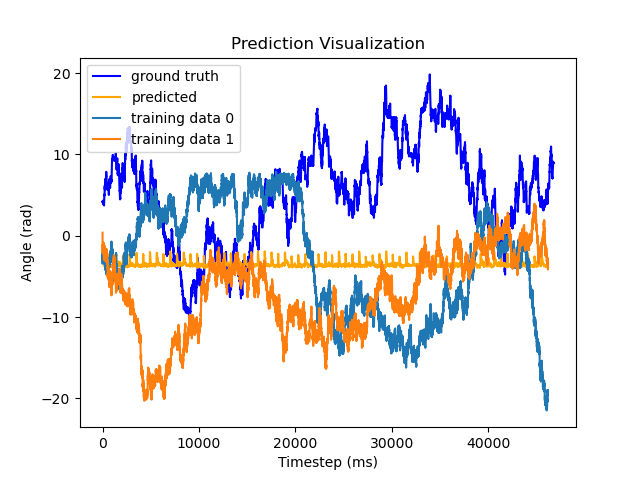
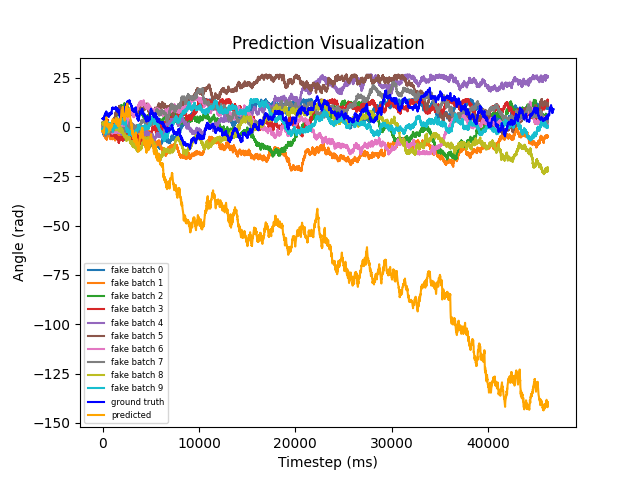
Real data is fundamentally different from fake data...see loss_ctrnn (1).png

diff --git a/src/train_fakedata.py b/src/train_fakedata.py
@@ -24,10 +24,10 @@ def main():
     outputs = []
     
     for i in range(TRAINING_BATCHES):
-        # if i == 0:
-        #     dataProcessor = DataPreprocessor(realAngs, sample_length=700, normalize=True)
-        # else:
-        dataProcessor = DataPreprocessor(datagen.GenerateAngs(), sample_length=700, normalize=True)
+        if i == 0:
+            dataProcessor = DataPreprocessor(realAngs, sample_length=700, normalize=True)
+        else:
+            dataProcessor = DataPreprocessor(datagen.GenerateAngs(), sample_length=700, normalize=True)
         initdirs.append(torch.from_numpy(dataProcessor.GetInitialInput()).float())
         inputs.append(torch.from_numpy(dataProcessor.GetTrainingInputs()).float())
         outputs.append(torch.from_numpy(dataProcessor.GetTrainingOutputs()).float())
